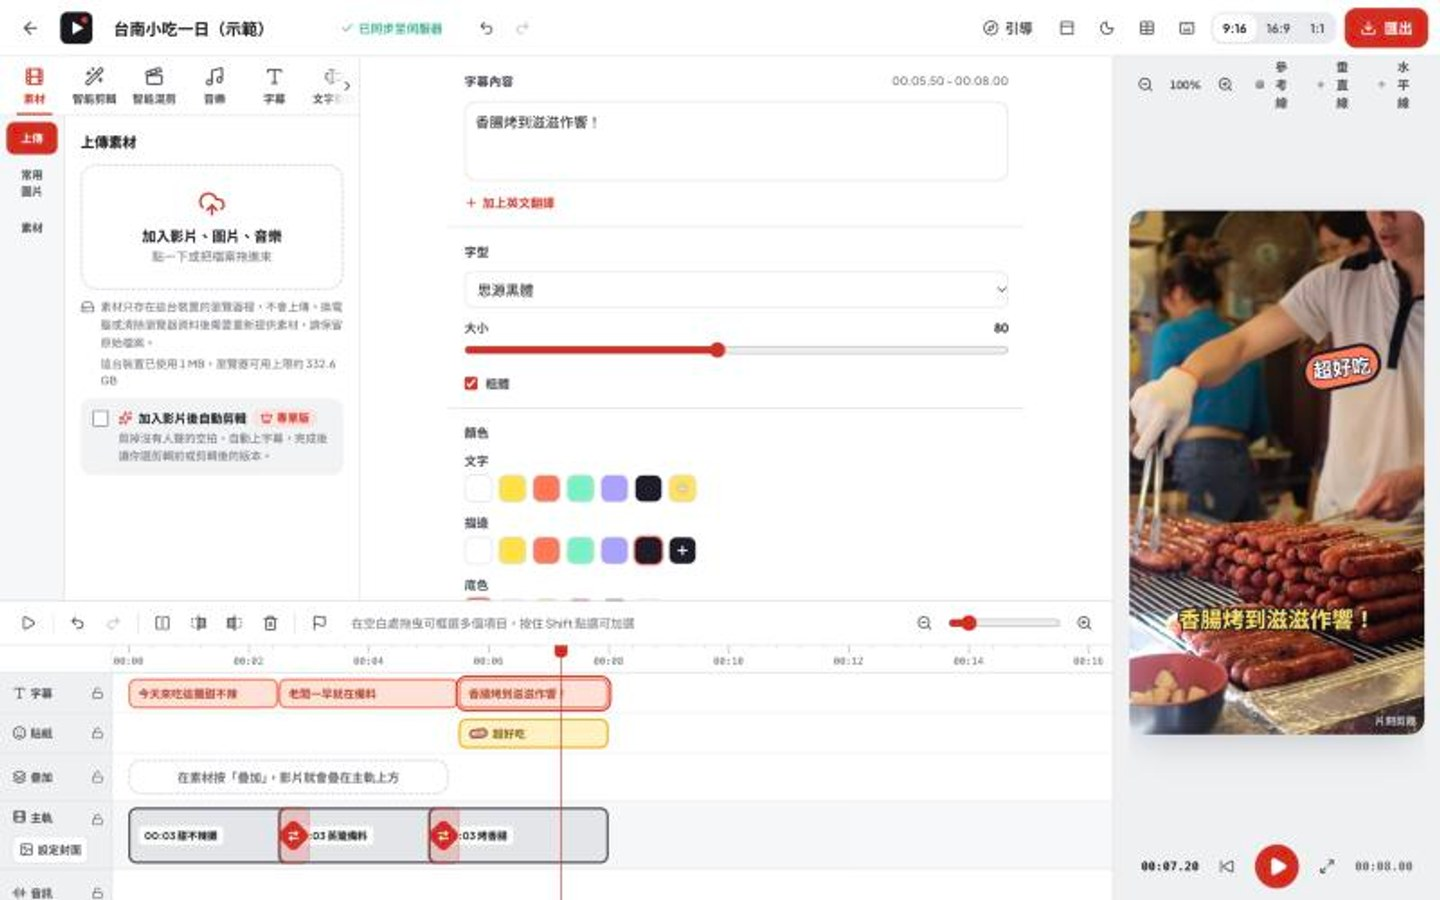
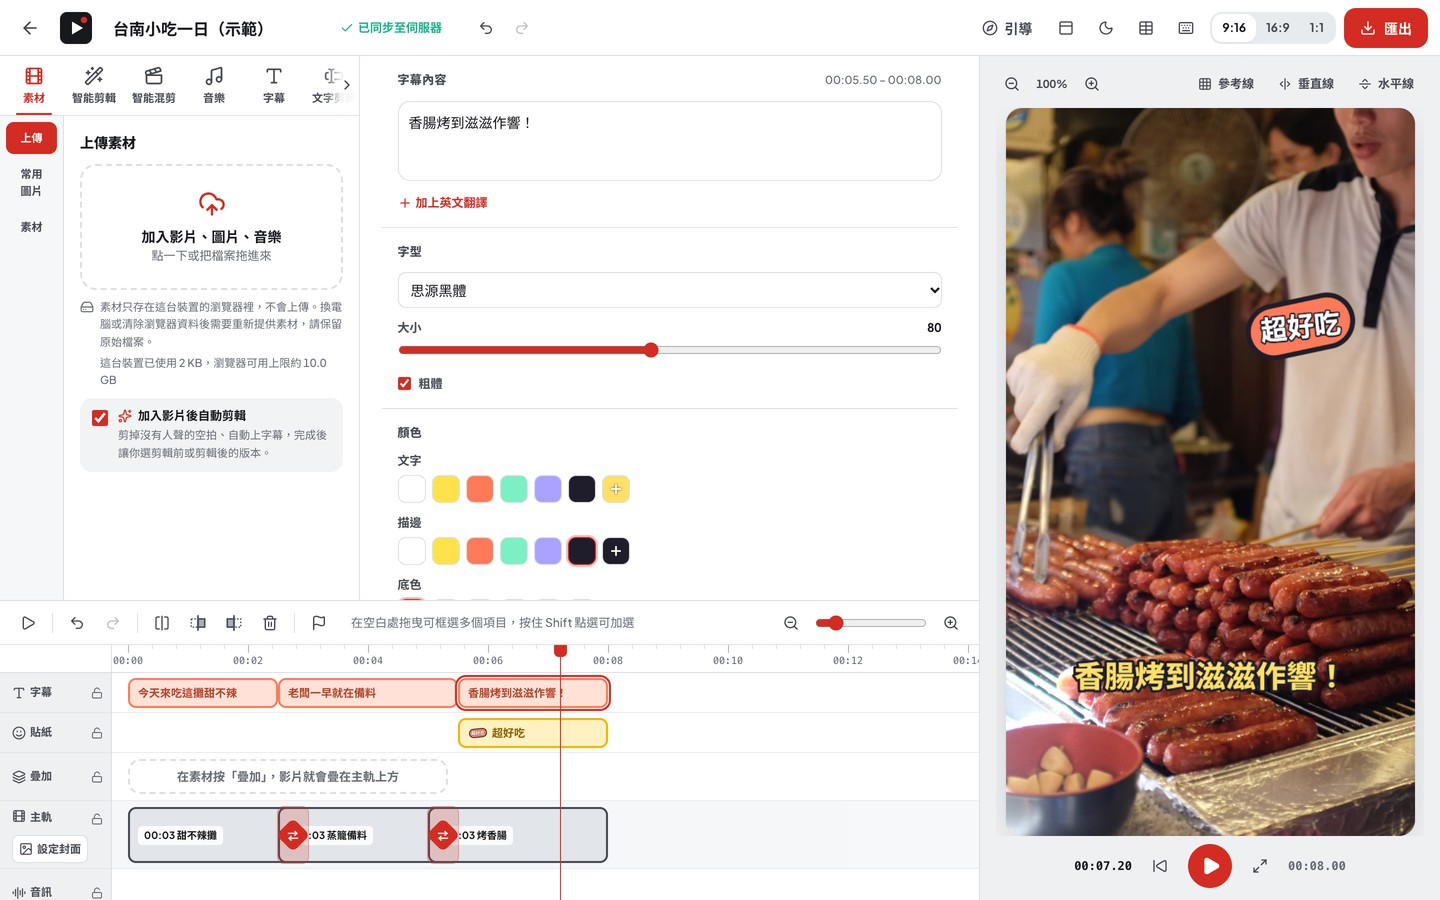
修正首頁大圖模糊問題，改用高解析度截圖重新產生
原本是把截圖工具輸出的低解析度畫面硬放大，導致文字模糊；
改用無頭 Chrome 以 2 倍解析度直接截取編輯器畫面後再等比縮小。

diff --git a/src/pages/Landing.tsx b/src/pages/Landing.tsx
@@ -75,7 +75,7 @@ function Hero() {
               <span className="ml-3 rounded-full bg-white px-3 py-0.5 text-[11px] text-site-mute">片刻剪趣編輯器</span>
             </div>
             <picture>
-              <source media="(max-width: 639px)" srcSet="/editor-demo-mobile.jpg" width={920} height={1703} />
+              <source media="(max-width: 639px)" srcSet="/editor-demo-mobile.jpg" width={920} height={1760} />
               <img
                 src="/editor-demo.jpg"
                 width={1440}
